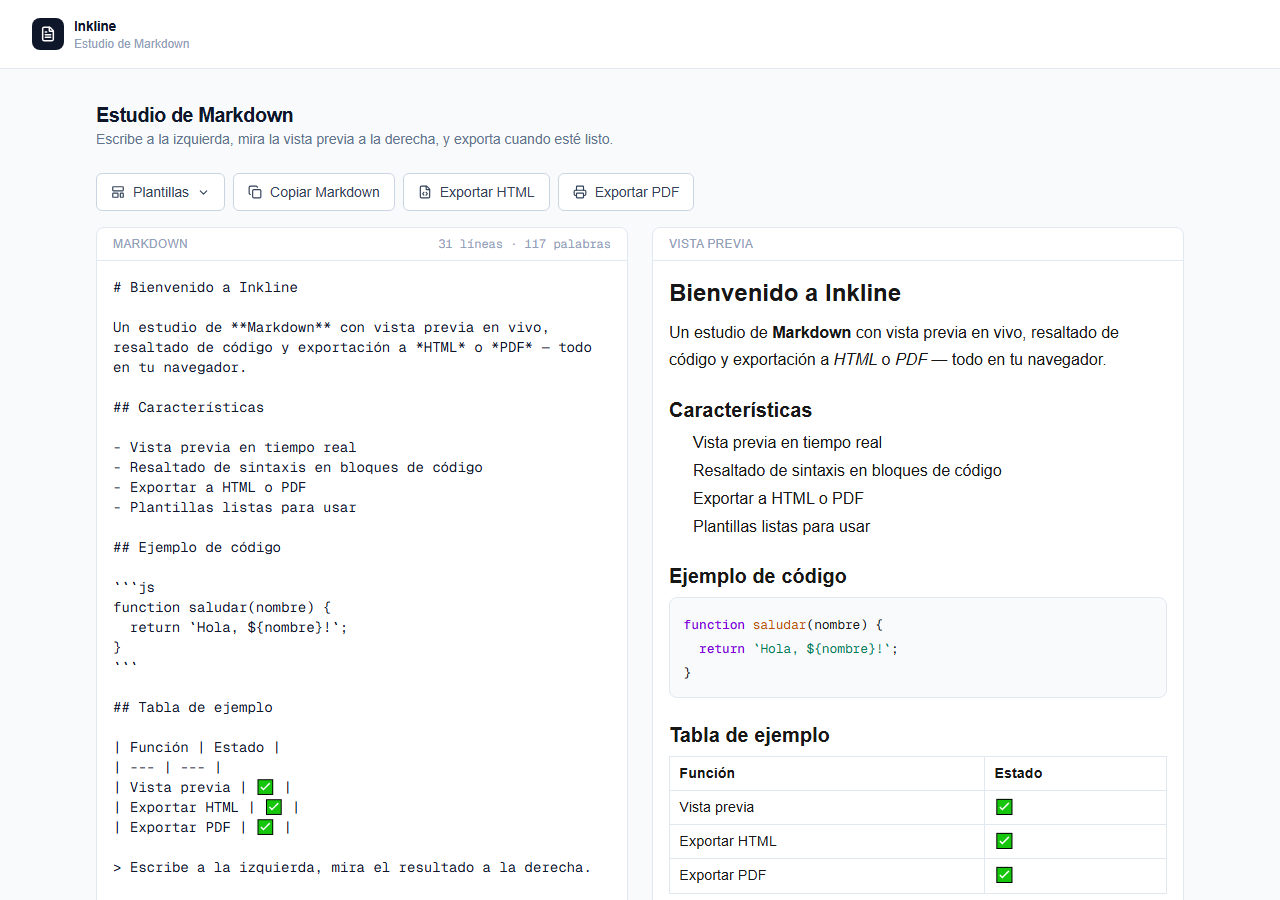
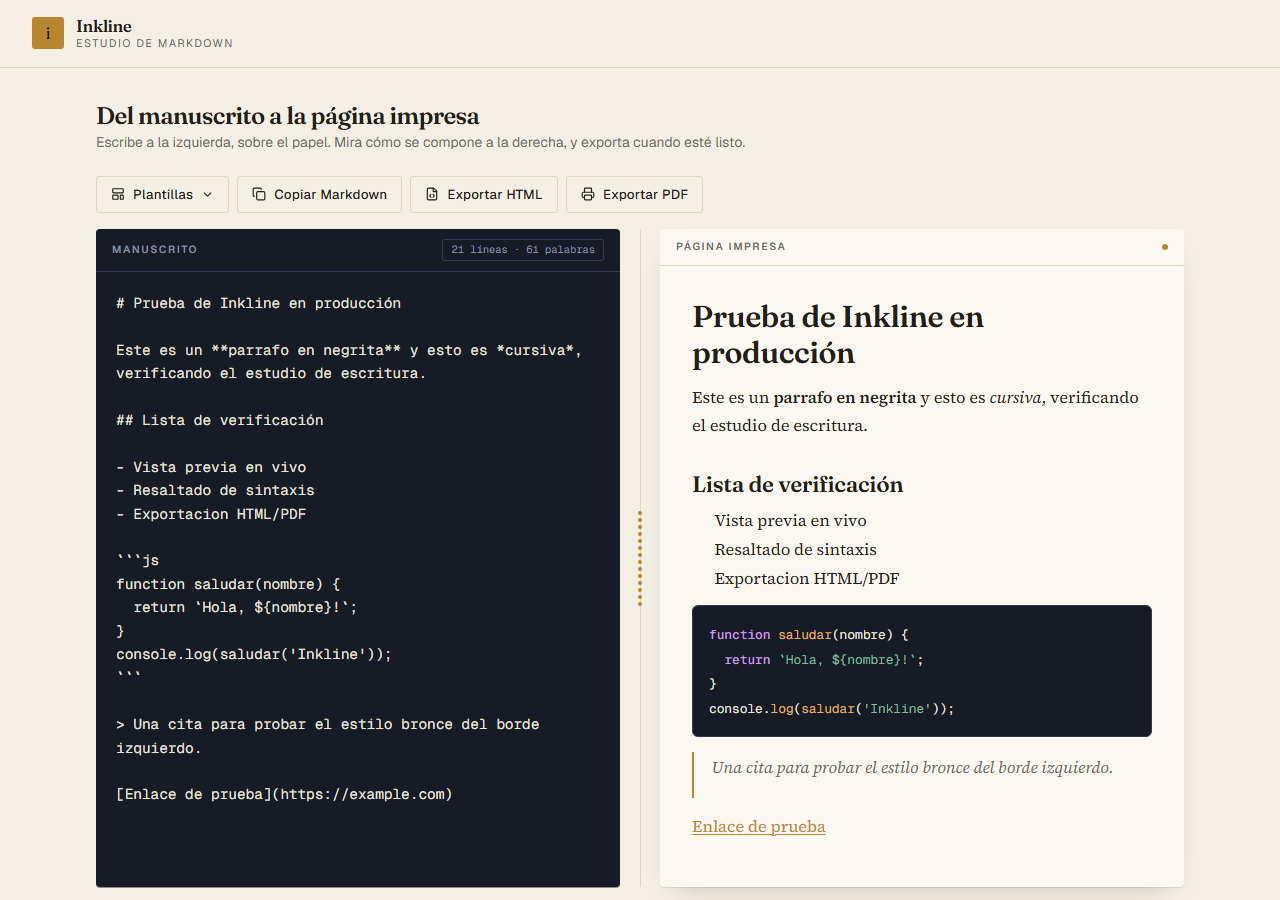
feat: agrega Convero al portafolio y actualiza capturas de Jsonly e Inkline
Jsonly e Inkline completaron su pase de rediseño visual "de bien a
espectacular"; Convero es un producto nuevo (Grado 3, conversor de
unidades con pivote y riel de magnitud).

diff --git a/lib/projects.ts b/lib/projects.ts
@@ -431,6 +431,22 @@ export const PROJECTS: Project[] = [
     accent: "#7C2D12",
     tier: 2,
   },
+  {
+    codename: "CVProject",
+    portfolioId: "CV3Prf",
+    name: "Convero",
+    tagline: "Conversor de unidades, con pivote y magnitud a la vista",
+    problem:
+      "Convertir unidades a mano obliga a buscar la fórmula, y la mayoría de los conversores muestran un número sin ninguna noción de qué tan grande o pequeño es realmente.",
+    solution:
+      "Longitud, peso, volumen, temperatura, área, velocidad y datos, todo recalculado en vivo desde un solo campo editable — tocar cualquier resultado lo vuelve la nueva unidad de origen, con un riel de magnitud junto a cada valor.",
+    stack: ["Next.js", "TypeScript", "Tailwind"],
+    screenshot: "/screenshots/cv-convero.png",
+    demoUrl: "https://convero-psi.vercel.app",
+    githubUrl: "https://github.com/ElectricDev3/convero",
+    accent: "#0F766E",
+    tier: 3,
+  },
 ];
 
 export const FEATURED = {
